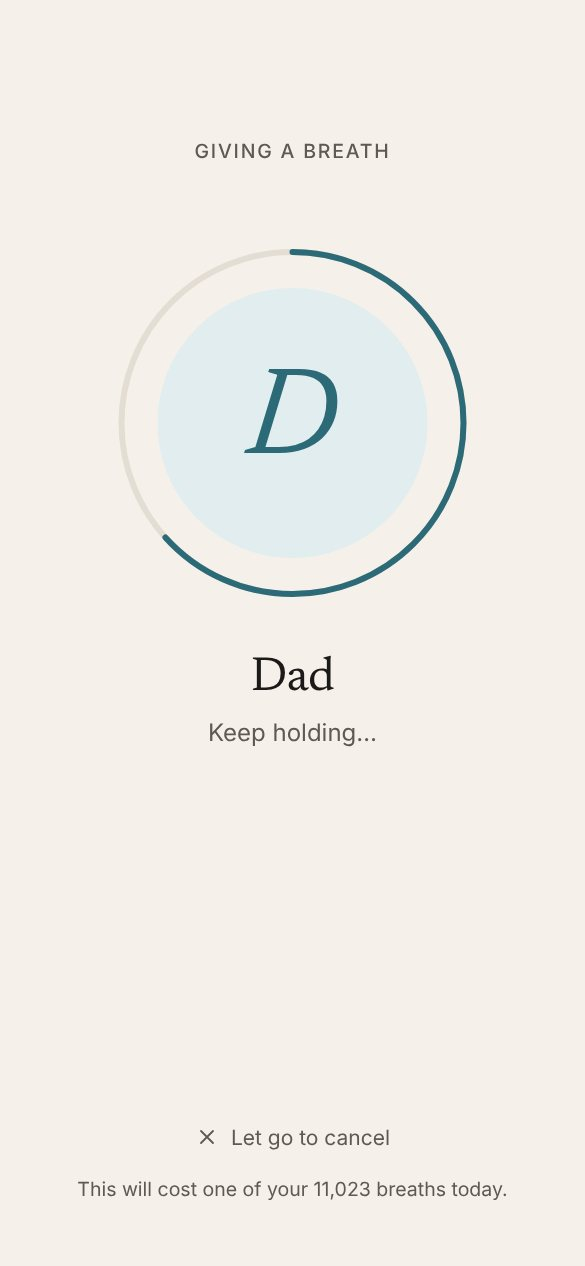
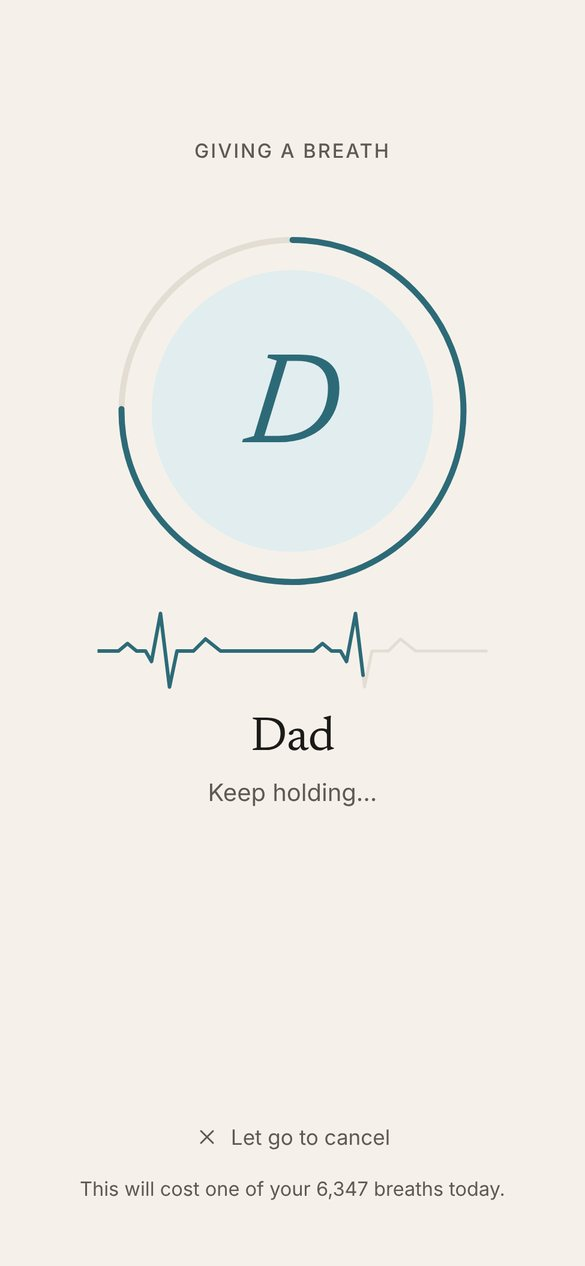
Same breathing dial everywhere: Home, intro and share card; website and store screenshots updated [play]
- Home: the plain ring is now the dot dial (96 quarter-hour dots and the breathing halo)
- Intro: the dial instead of a static mark, plus a 4th screen on the newer features
- Share card: a still dot ring of the day instead of the logo
- Settings: tap a person to open their page
- Website: fresh How-it-works screenshots, a 'More in Breath' section (month together,
  focus, the breathing dial and widget) and four new FAQ entries
- Store: Home and lock-screen screenshots retaken

Claude-Session: https://claude.ai/code/session_018UEKPKFn1dwfvXPYBgeMc3

diff --git a/site/faq/index.html b/site/faq/index.html
@@ -25,7 +25,7 @@
   <link rel="preload" href="../fonts/newsreader-latin-standard-normal.woff2" as="font" type="font/woff2" crossorigin>
   <link rel="preload" href="../fonts/inter-latin-400-normal.woff2" as="font" type="font/woff2" crossorigin>
   <link rel="stylesheet" href="../style.css">
-  <script type="application/ld+json">{"@context":"https://schema.org","@type":"FAQPage","mainEntity":[{"@type":"Question","name":"What is Breath?","acceptedAnswer":{"@type":"Answer","text":"A quiet app that shows an estimate of the breaths left in your day, and lets you spend one on someone you love. They see that you thought of them. There are no messages to write and no reply is expected."}},{"@type":"Question","name":"Is the count real?","acceptedAnswer":{"@type":"Answer","text":"It is a contemplative estimate: about fifteen breaths a minute from now until midnight, less the breaths you have given today. It does not measure your breathing and it is not a prediction of anything. It is a device for attention. Read the idea behind it."}},{"@type":"Question","name":"How do I connect with someone?","acceptedAnswer":{"@type":"Answer","text":"In the app, tap Invite someone and share your link over WhatsApp, SMS or anywhere. When they open it and set up Breath, you are connected. You can also type each other’s six-letter code. Breath never reads your contacts."}},{"@type":"Question","name":"Does the other person need the app?","acceptedAnswer":{"@type":"Answer","text":"Yes, but it doesn’t have to be on Android. On an iPhone or a computer they can use Breath on the web — the invite link takes them there."}},{"@type":"Question","name":"Is there an iPhone app?","acceptedAnswer":{"@type":"Answer","text":"Not yet. Use Breath on the web in Safari, then tap Share → Add to Home Screen to keep it like an app. An App Store version is planned."}},{"@type":"Question","name":"How do I install the Android app?","acceptedAnswer":{"@type":"Answer","text":"Tap Download for Android and open the file. Android may ask you to allow installs from your browser the first time — that is normal for apps from outside Google Play. Google Play is coming soon."}},{"@type":"Question","name":"Will I be notified when someone gives me a breath?","acceptedAnswer":{"@type":"Answer","text":"Yes, on Android, if you allow notifications when the app asks. Tapping the notification opens the breath. The web version shows breaths when you open it."}},{"@type":"Question","name":"Can I send a message with a breath?","acceptedAnswer":{"@type":"Answer","text":"No, and that is on purpose. A breath says “I thought of you” without asking anything back."}},{"@type":"Question","name":"What if I block someone?","acceptedAnswer":{"@type":"Answer","text":"They are not told. They simply can no longer send you breaths or see your notification address. You can unblock them in Settings."}},{"@type":"Question","name":"What does Breath know about me?","acceptedAnswer":{"@type":"Answer","text":"Only the name you type, an anonymous account ID, your invite code, your connections and the breaths you receive. No email, phone number, contacts, location or ads. Privacy policy."}},{"@type":"Question","name":"How do I delete my account?","acceptedAnswer":{"@type":"Answer","text":"In the app: Settings → Account → delete my account. Everything is removed immediately. Other options."}},{"@type":"Question","name":"Is it free?","acceptedAnswer":{"@type":"Answer","text":"Yes. No ads, no subscriptions, no in-app purchases."}}]}</script>
+  <script type="application/ld+json">{"@context":"https://schema.org","@type":"FAQPage","mainEntity":[{"@type":"Question","name":"What is Breath?","acceptedAnswer":{"@type":"Answer","text":"A quiet app that shows an estimate of the breaths left in your day, and lets you spend one on someone you love. They see that you thought of them. There are no messages to write and no reply is expected."}},{"@type":"Question","name":"Is the count real?","acceptedAnswer":{"@type":"Answer","text":"It is a contemplative estimate: about fifteen breaths a minute from now until midnight, less the breaths you have given today. It does not measure your breathing and it is not a prediction of anything. It is a device for attention. Read the idea behind it."}},{"@type":"Question","name":"How do I connect with someone?","acceptedAnswer":{"@type":"Answer","text":"In the app, tap Invite someone and share your link over WhatsApp, SMS or anywhere. When they open it and set up Breath, you are connected. You can also type each other’s six-letter code. Breath never reads your contacts."}},{"@type":"Question","name":"Does the other person need the app?","acceptedAnswer":{"@type":"Answer","text":"Yes, but it doesn’t have to be on Android. On an iPhone or a computer they can use Breath on the web — the invite link takes them there."}},{"@type":"Question","name":"Is there an iPhone app?","acceptedAnswer":{"@type":"Answer","text":"Not yet. Use Breath on the web in Safari, then tap Share → Add to Home Screen to keep it like an app. An App Store version is planned."}},{"@type":"Question","name":"How do I install the Android app?","acceptedAnswer":{"@type":"Answer","text":"Tap Download for Android and open the file. Android may ask you to allow installs from your browser the first time — that is normal for apps from outside Google Play. Google Play is coming soon."}},{"@type":"Question","name":"Will I be notified when someone gives me a breath?","acceptedAnswer":{"@type":"Answer","text":"Yes, on Android, if you allow notifications when the app asks. Tapping the notification opens the breath. The web version shows breaths when you open it."}},{"@type":"Question","name":"What is Breath for focus?","acceptedAnswer":{"@type":"Answer","text":"Before a task, you decide what it is worth in breaths — 225, 450 or 900, about 15, 30 or 60 minutes — and watch them pass on a breathing dial. There is no pause button, on purpose: your breaths don’t stop while you step away. In the evening, see where today’s breaths went. It all stays on your phone."}},{"@type":"Question","name":"What does tapping a name show?","acceptedAnswer":{"@type":"Answer","text":"Your month together: a grid of days showing when you gave a breath, when they did, and when you both did. It is built only from your own account and only you see it. No streaks, no scores."}},{"@type":"Question","name":"Is there a widget?","acceptedAnswer":{"@type":"Answer","text":"On Android, yes. Long-press your home screen, choose Widgets, then Breath. It shows the day as a dial of quarter-hour dots and up to three of your people. Tap a name twice to give a breath without opening the app."}},{"@type":"Question","name":"What is Morning breath?","acceptedAnswer":{"@type":"Answer","text":"An optional, gentle notification once a day at a time you choose: “Who’s on your mind today?” It is off unless you turn it on in Settings, and opens today’s intention."}},{"@type":"Question","name":"Can I send a message with a breath?","acceptedAnswer":{"@type":"Answer","text":"No, and that is on purpose. A breath says “I thought of you” without asking anything back."}},{"@type":"Question","name":"What if I block someone?","acceptedAnswer":{"@type":"Answer","text":"They are not told. They simply can no longer send you breaths or see your notification address. You can unblock them in Settings."}},{"@type":"Question","name":"What does Breath know about me?","acceptedAnswer":{"@type":"Answer","text":"Only the name you type, an anonymous account ID, your invite code, your connections and the breaths you receive. No email, phone number, contacts, location or ads. Privacy policy."}},{"@type":"Question","name":"How do I delete my account?","acceptedAnswer":{"@type":"Answer","text":"In the app: Settings → Account → delete my account. Everything is removed immediately. Other options."}},{"@type":"Question","name":"Is it free?","acceptedAnswer":{"@type":"Answer","text":"Yes. No ads, no subscriptions, no in-app purchases."}}]}</script>
 </head>
 <body>
   <a class="skip" href="#main">Skip to content</a>
@@ -75,6 +75,22 @@
     <details>
       <summary>Will I be notified when someone gives me a breath?</summary>
       <div><p>Yes, on Android, if you allow notifications when the app asks. Tapping the notification opens the breath. The web version shows breaths when you open it.</p></div>
+    </details>
+    <details>
+      <summary>What is Breath for focus?</summary>
+      <div><p>Before a task, you decide what it is worth in breaths — 225, 450 or 900, about 15, 30 or 60 minutes — and watch them pass on a breathing dial. There is no pause button, on purpose: your breaths don’t stop while you step away. In the evening, see where today’s breaths went. It all stays on your phone.</p></div>
+    </details>
+    <details>
+      <summary>What does tapping a name show?</summary>
+      <div><p>Your month together: a grid of days showing when you gave a breath, when they did, and when you both did. It is built only from your own account and only you see it. No streaks, no scores.</p></div>
+    </details>
+    <details>
+      <summary>Is there a widget?</summary>
+      <div><p>On Android, yes. Long-press your home screen, choose <b>Widgets</b>, then <b>Breath</b>. It shows the day as a dial of quarter-hour dots and up to three of your people. Tap a name twice to give a breath without opening the app.</p></div>
+    </details>
+    <details>
+      <summary>What is Morning breath?</summary>
+      <div><p>An optional, gentle notification once a day at a time you choose: “Who’s on your mind today?” It is off unless you turn it on in Settings, and opens today’s intention.</p></div>
     </details>
     <details>
       <summary>Can I send a message with a breath?</summary>

diff --git a/site/index.html b/site/index.html
@@ -106,12 +106,31 @@
           <div class="text"><div class="n">01</div><div><h3>Invite your people</h3><p>Share a link over WhatsApp or anywhere. When they open it, you’re connected. No phone numbers, no contact uploads.</p></div></div>
         </div>
         <div class="step">
-          <div class="stage"><div class="phone"><img src="img/hold.jpg" width="585" height="1266" loading="lazy" alt="Holding a name: a ring fills around the person’s initial, with Keep holding underneath."></div></div>
-          <div class="text"><div class="n">02</div><div><h3>Hold a name</h3><p>A ring fills as you hold. Let go to cancel. Each gift costs one of your own breaths, which is what makes it sincere.</p></div></div>
+          <div class="stage"><div class="phone"><img src="img/hold.jpg" width="585" height="1266" loading="lazy" alt="Holding a name: a ring fills around Dad’s initial while a heartbeat line draws beneath it."></div></div>
+          <div class="text"><div class="n">02</div><div><h3>Hold a name</h3><p>A ring fills and a heartbeat crosses the screen as you hold. Let go to cancel. Each gift costs one of your own breaths, which is what makes it sincere.</p></div></div>
         </div>
         <div class="step">
           <div class="stage"><div class="phone"><img src="img/received.jpg" width="585" height="1266" loading="lazy" alt="Receiving: Mom spent a breath on you, a few minutes ago. No reply needed."></div></div>
           <div class="text"><div class="n">03</div><div><h3>They simply know</h3><p>They see that you spent a breath on them. They can just smile, or breathe one back. There is no thread to keep up.</p></div></div>
+        </div>
+      </div>
+    </section>
+
+    <section class="how more" id="features">
+      <p class="eyebrow">More in Breath</p>
+      <h2>Breaths, spent on purpose.</h2>
+      <div class="steps">
+        <div class="step">
+          <div class="stage"><div class="phone"><img src="img/person.jpg" width="585" height="1266" loading="lazy" alt="A month of dots between you and Mom: filled for days you gave, rings for days she gave."></div></div>
+          <div class="text"><div><h3>Your month, together</h3><p>Tap a name to see this month as a quiet grid of days: the days you gave, the days they gave, the days you both did. Only on your phone. No streaks, no scores.</p></div></div>
+        </div>
+        <div class="step">
+          <div class="stage"><div class="phone"><img src="img/focus.jpg" width="585" height="1266" loading="lazy" alt="A focus session: 436 of 450 breaths left on Write the launch email, as a ring of fading dots."></div></div>
+          <div class="text"><div><h3>Breath for focus</h3><p>Price a task in breaths before you begin — 450 is about half an hour — and watch them pass. Your breaths don’t pause, and neither does a focus session.</p></div></div>
+        </div>
+        <div class="step">
+          <div class="stage"><div class="phone"><img src="img/lock.jpg" width="585" height="1266" loading="lazy" alt="The lock screen dial: 8,535 breaths left today, with one given and one received."></div></div>
+          <div class="text"><div><h3>Your day, breathing</h3><p>The day as 96 quarter-hour dots and a breathing circle, on the lock screen and, on Android, as a home-screen widget with your people a tap away.</p></div></div>
         </div>
       </div>
     </section>

diff --git a/breath-app/src/screens/OnboardingScreen.js b/breath-app/src/screens/OnboardingScreen.js
@@ -2,10 +2,11 @@ import React, { useState } from 'react';
 import { View, Text, StyleSheet } from 'react-native';
 import { SafeAreaView } from 'react-native-safe-area-context';
 import { StatusBar } from 'expo-status-bar';
-import Svg, { Circle } from 'react-native-svg';
 import { colors, fonts } from '../theme/tokens';
 import { useBreath } from '../state/BreathContext';
+import { useLiveBreaths } from '../lib/breathClock';
 import { PrimaryButton, TextButton } from '../components/ui';
+import BreathDial from '../components/BreathDial';
 
 const STEPS = [
   {
@@ -21,10 +22,15 @@ const STEPS = [
     title: 'Say it without saying anything.',
     body: 'When you think of someone but don’t have a conversation in you, give them a breath. It costs one of your own, which is what makes it sincere. No thread, no reply expected.',
   },
+  {
+    title: 'Spend them on purpose.',
+    body: 'Tap a name to see your month together. Price a task in breaths with Breath for focus: your breaths don’t pause, and neither does it. On Android, keep the day on your home screen with the widget.',
+  },
 ];
 
 export default function OnboardingScreen({ navigation }) {
-  const { completeOnboarding, me } = useBreath();
+  const { completeOnboarding, me, dayProgress, givenToday } = useBreath();
+  const breathsLeft = useLiveBreaths(givenToday);
   const [step, setStep] = useState(0);
   const s = STEPS[step];
   const isLast = step === STEPS.length - 1;
@@ -44,12 +50,9 @@ export default function OnboardingScreen({ navigation }) {
       <View style={styles.content}>
         <Text style={styles.wordmark}>Breath</Text>
 
+        {/* Your real day, breathing: the same dial as Home and the lock screen. */}
         <View style={styles.mark}>
-          <Svg width={168} height={168} viewBox="0 0 168 168">
-            <Circle cx={84} cy={84} r={78} fill="none" stroke={colors.moon} strokeOpacity={0.18} strokeWidth={1} />
-            <Circle cx={84} cy={84} r={62} fill="none" stroke={colors.moon} strokeWidth={1.5} />
-            <Circle cx={84} cy={84} r={6} fill={colors.tideLight} />
-          </Svg>
+          <BreathDial size={204} progress={dayProgress} breathsLeft={breathsLeft} />
         </View>
 
         <Text style={styles.title}>{s.title}</Text>
@@ -89,7 +92,7 @@ const styles = StyleSheet.create({
   container: { flex: 1, backgroundColor: colors.night },
   content: { flex: 1, paddingTop: 24, paddingHorizontal: 28, paddingBottom: 20 },
   wordmark: { fontFamily: fonts.displayItalic, fontSize: 22, color: colors.moon },
-  mark: { alignItems: 'center', marginTop: 44, marginBottom: 40 },
+  mark: { alignItems: 'center', marginTop: 28, marginBottom: 30 },
   title: { fontFamily: fonts.display, fontSize: 34, lineHeight: 39, letterSpacing: -0.4, color: colors.moon, marginBottom: 14 },
   attribution: { fontFamily: fonts.displayItalic, fontSize: 16, color: colors.tideLight, marginBottom: 14 },
   body: { fontFamily: fonts.ui, fontSize: 16, lineHeight: 26, color: colors.moonMuted },

diff --git a/breath-app/src/screens/HomeScreen.js b/breath-app/src/screens/HomeScreen.js
@@ -6,7 +6,8 @@ import { useLiveBreaths } from '../lib/breathClock';
 import { useBreath } from '../state/BreathContext';
 import { breathsUsed, useFocus } from '../state/FocusContext';
 import { relativeTime } from '../lib/api';
-import { Avatar, BreathMark, Icon, IconButton, ProgressRing, SecondaryButton } from '../components/ui';
+import { Avatar, BreathMark, Icon, IconButton, SecondaryButton } from '../components/ui';
+import BreathDial from '../components/BreathDial';
 import { PersonRow, useHoldToGive } from '../components/HoldToGive';
 
 export default function HomeScreen({ navigation }) {
@@ -81,12 +82,7 @@ export default function HomeScreen({ navigation }) {
         {isPublic ? <Text style={styles.publicTag}>One to one, not one to a million</Text> : null}
 
         <View style={styles.ringWrap}>
-          <ProgressRing size={232} progress={dayProgress}>
-            <Text style={styles.count} accessibilityLabel={`${dailyBreathsRemaining} breaths left today`}>
-              {dailyBreathsRemaining.toLocaleString()}
-            </Text>
-            <Text style={styles.countLabel}>breaths left today</Text>
-          </ProgressRing>
+          <BreathDial size={272} progress={dayProgress} breathsLeft={dailyBreathsRemaining} dark={false} />
           <Text style={styles.estimate}>A contemplative estimate, not a prediction</Text>
           {focus.active ? (
             <Pressable accessibilityRole="button" onPress={() => navigation.navigate('FocusSession')} style={[styles.focusPill, styles.focusPillOn]}>
@@ -204,8 +200,6 @@ const styles = StyleSheet.create({
   wordmark: { fontFamily: fonts.displayItalic, fontSize: 24, color: colors.ink },
   publicTag: { fontFamily: fonts.displayItalic, fontSize: 15, color: colors.tide, paddingLeft: 4, marginTop: 2 },
   ringWrap: { alignItems: 'center', marginTop: 18, marginBottom: 22 },
-  count: { fontFamily: fonts.displayLight, fontSize: 58, lineHeight: 64, letterSpacing: -1.5, color: colors.ink },
-  countLabel: { fontFamily: fonts.ui, fontSize: 13, color: colors.stone, marginTop: 4 },
   estimate: { fontFamily: fonts.ui, fontSize: 12.5, color: colors.stone, marginTop: 12 },
   focusPill: { flexDirection: 'row', alignItems: 'center', gap: 8, marginTop: 14, minHeight: 40, paddingHorizontal: 16, borderRadius: 999, borderWidth: 1, borderColor: colors.border, maxWidth: '100%' },
   focusPillOn: { backgroundColor: colors.ink, borderColor: colors.ink },

diff --git a/breath-app/src/screens/ShareCardScreen.js b/breath-app/src/screens/ShareCardScreen.js
@@ -4,12 +4,39 @@ import { SafeAreaView } from 'react-native-safe-area-context';
 import { captureRef } from 'react-native-view-shot';
 import * as Sharing from 'expo-sharing';
 import { colors, fonts } from '../theme/tokens';
-import { BreathMark, PrimaryButton, ScreenHeader, TextButton } from '../components/ui';
+import Svg, { Circle } from 'react-native-svg';
+import { PrimaryButton, ScreenHeader, TextButton } from '../components/ui';
 import { useBreath } from '../state/BreathContext';
+
+// The day as 96 quarter-hour dots, still (no animation, so the saved image is crisp).
+function DayDots({ size = 132, progress }) {
+  const n = 96;
+  const r = size / 2 - 6;
+  const now = Math.min(n - 1, Math.floor(progress * n));
+  return (
+    <Svg width={size} height={size}>
+      {Array.from({ length: n }, (_, i) => {
+        const a = (i / n) * 2 * Math.PI - Math.PI / 2;
+        const isNow = i === now;
+        return (
+          <Circle
+            key={i}
+            cx={size / 2 + r * Math.cos(a)}
+            cy={size / 2 + r * Math.sin(a)}
+            r={isNow ? 3.6 : 1.7}
+            fill={isNow ? colors.tideLight : colors.moon}
+            opacity={i < now ? 0.18 : 0.9}
+          />
+        );
+      })}
+      <Circle cx={size / 2} cy={size / 2} r={size * 0.22} fill="rgba(140,195,207,0.14)" stroke="rgba(140,195,207,0.35)" strokeWidth={1} />
+    </Svg>
+  );
+}
 
 export default function ShareCardScreen({ route, navigation }) {
   const { name } = route.params;
-  const { lastGift, previewMode } = useBreath();
+  const { lastGift, previewMode, dayProgress } = useBreath();
   const isCeleb = previewMode === 'celebrity';
   const cardRef = useRef(null);
   const [busy, setBusy] = useState(false);
@@ -51,7 +78,7 @@ export default function ShareCardScreen({ route, navigation }) {
         </View>
 
         <View ref={cardRef} collapsable={false} style={styles.card}>
-          <BreathMark size={64} color={colors.moon} dot={colors.tideLight} strokeWidth={1.4} />
+          <DayDots progress={dayProgress} />
           <Text style={styles.line}>
             {isCeleb ? `${name === 'you' ? 'They' : name} gave a fan a breath.` : 'I spent a breath thinking of you.'}
           </Text>

diff --git a/breath-app/src/screens/SettingsScreen.js b/breath-app/src/screens/SettingsScreen.js
@@ -152,7 +152,14 @@ export default function SettingsScreen({ navigation }) {
         <Card style={{ overflow: 'hidden' }}>
           {people.map((c, i) => (
             <View key={c.id} style={[styles.row, i < people.length - 1 && styles.rowDivider]}>
-              <Text style={[styles.rowLabel, c.blocked && { color: colors.stone }]}>{c.name}</Text>
+              <Pressable
+                accessibilityRole="button"
+                disabled={c.blocked}
+                onPress={() => navigation.navigate('Person', { id: c.id, name: c.name })}
+                style={{ flex: 1, paddingVertical: 14 }}
+              >
+                <Text style={[styles.rowLabel, c.blocked && { color: colors.stone }]}>{c.name}</Text>
+              </Pressable>
               <Pressable accessibilityRole="button" accessibilityLabel={`${c.blocked ? 'Unblock' : 'Block'} ${c.name}`} onPress={() => onBlock(c.id)} style={styles.rowAction}>
                 <Text style={styles.rowActionLabel}>{c.blocked ? 'Unblock' : 'Block'}</Text>
               </Pressable>

diff --git a/breath-app/src/components/BreathDial.js b/breath-app/src/components/BreathDial.js
@@ -118,7 +118,7 @@ export default function BreathDial({ size = 300, progress, breathsLeft, dark = t
       />
       <View style={[StyleSheet.absoluteFill, styles.center]} pointerEvents="none">
         {!reduceMotion ? <Text style={[styles.cue, { color: fg }]}>{inhaling ? 'breathe in' : 'breathe out'}</Text> : null}
-        <Text style={[styles.count, { color: fg }]}>{breathsLeft.toLocaleString()}</Text>
+        <Text style={[styles.count, { color: fg, fontSize: Math.round(size * 0.15) }]}>{breathsLeft.toLocaleString()}</Text>
         <Text style={[styles.label, { color: muted }]}>breaths left today</Text>
       </View>
     </View>

diff --git a/site/style.css b/site/style.css
@@ -226,3 +226,5 @@ footer nav a { color: var(--muted); padding: 10px; }
   .top nav a { padding: 10px 8px; }
 }
 .essay > h2 { margin-top: 44px; }
+
+.how.more { padding-top: 24px; }
